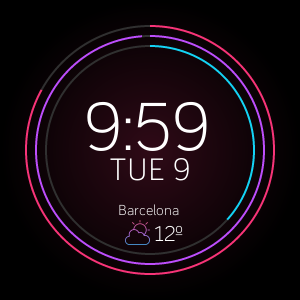
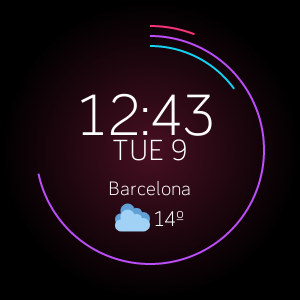
gui update

diff --git a/resources/styles.css b/resources/styles.css
@@ -1,5 +1,5 @@
 #gradient {
-  opacity: 0.2;
+  opacity: 0.3;
 }
 
 #smallArc {
@@ -48,38 +48,38 @@
 
 .mainText {
   x: 50%;
-  y: 50%;
-  font-size: 70;
+  y: 45%;
+  font-size: 60;
   text-length: 20;
   text-anchor: middle;
 }
 
 .subText {
   x: 50%;
-  y: 50%+30;
-  font-size: 32;
+  y: 45%+25;
+  font-size: 30;
   text-length: 20;
   text-anchor: middle;
 }
 
 #weatherLoc {
   x: 50%;
-  y: 50%+65;
-  font-size: 15;
-  text-length: 20;
+  y: 50%+45;
+  font-size: 20;
+  text-length: 35;
   text-anchor: middle;
 }
 
 #weatherIcon {
-  x: 50%-25;
-  y: 50%+70;
-  width: 25;
-  height: 25;
+  x: 50%-35;
+  y: 50%+50;
+  width: 35;
+  height: 35;
 }
 
 #weatherTemp {
   x: 50%+20;
-  y: 50%+91;
+  y: 50%+76;
   font-size: 22;
   text-length: 5;
   text-anchor: middle;
